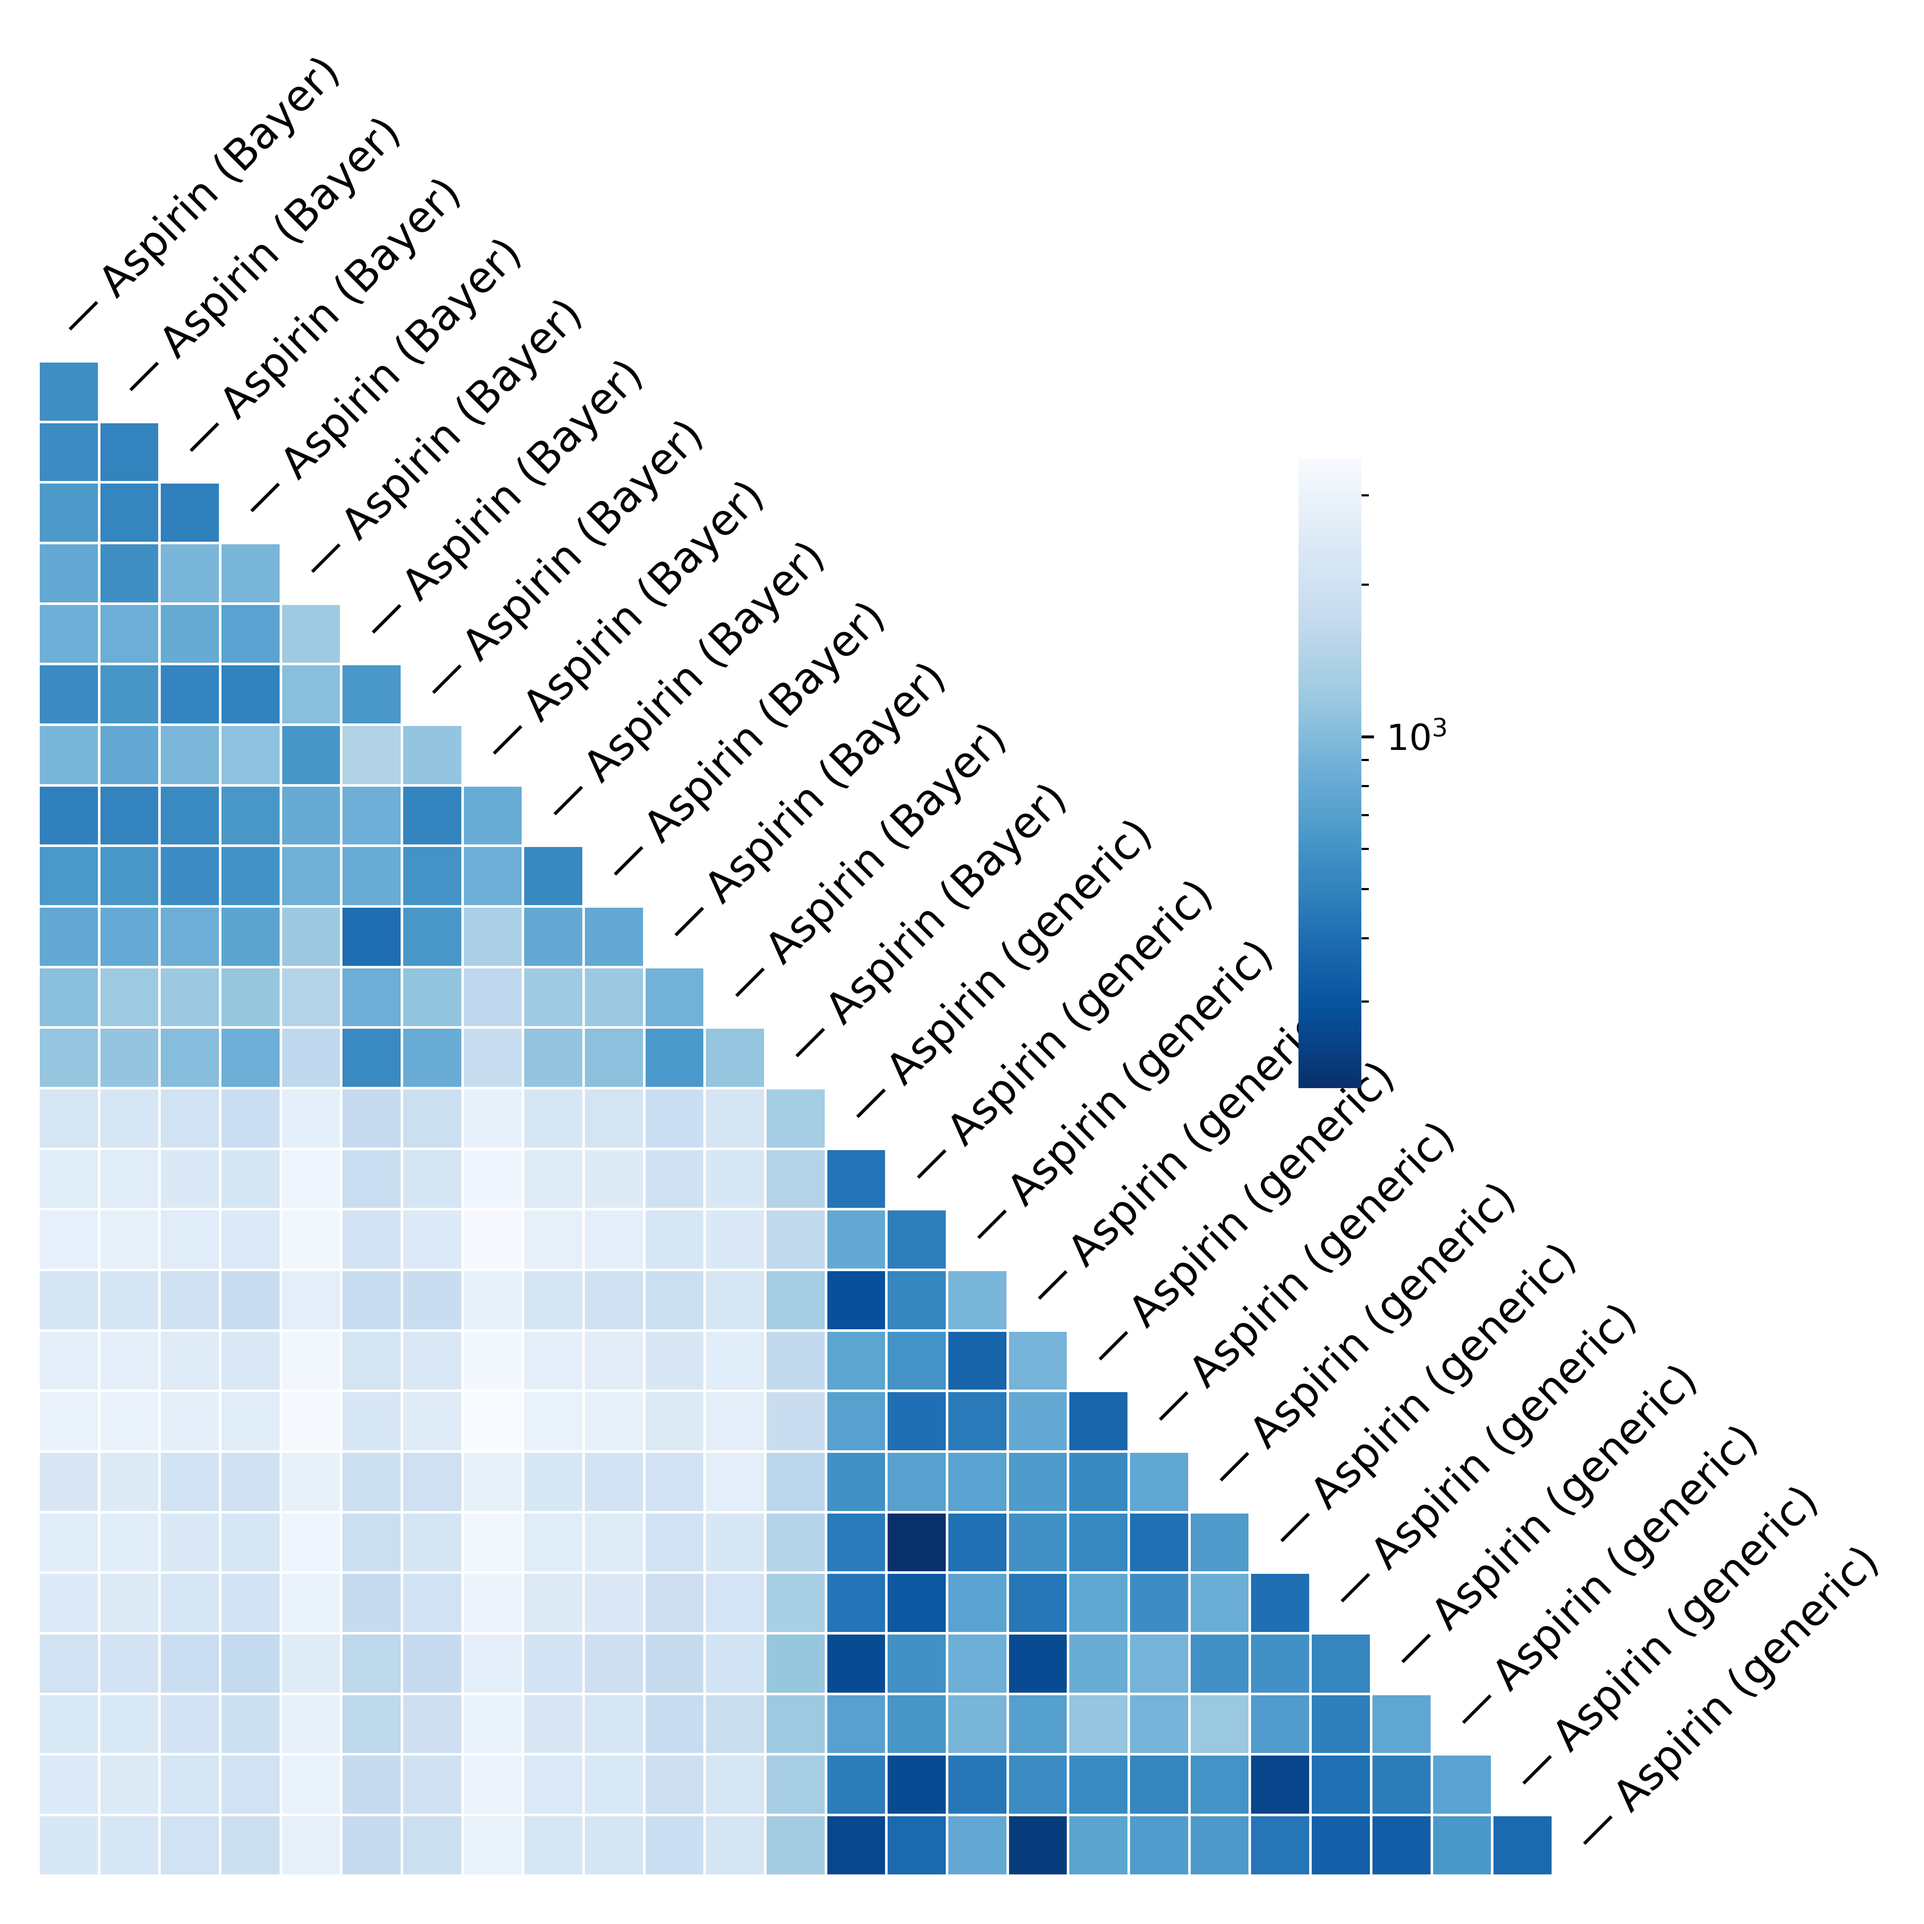
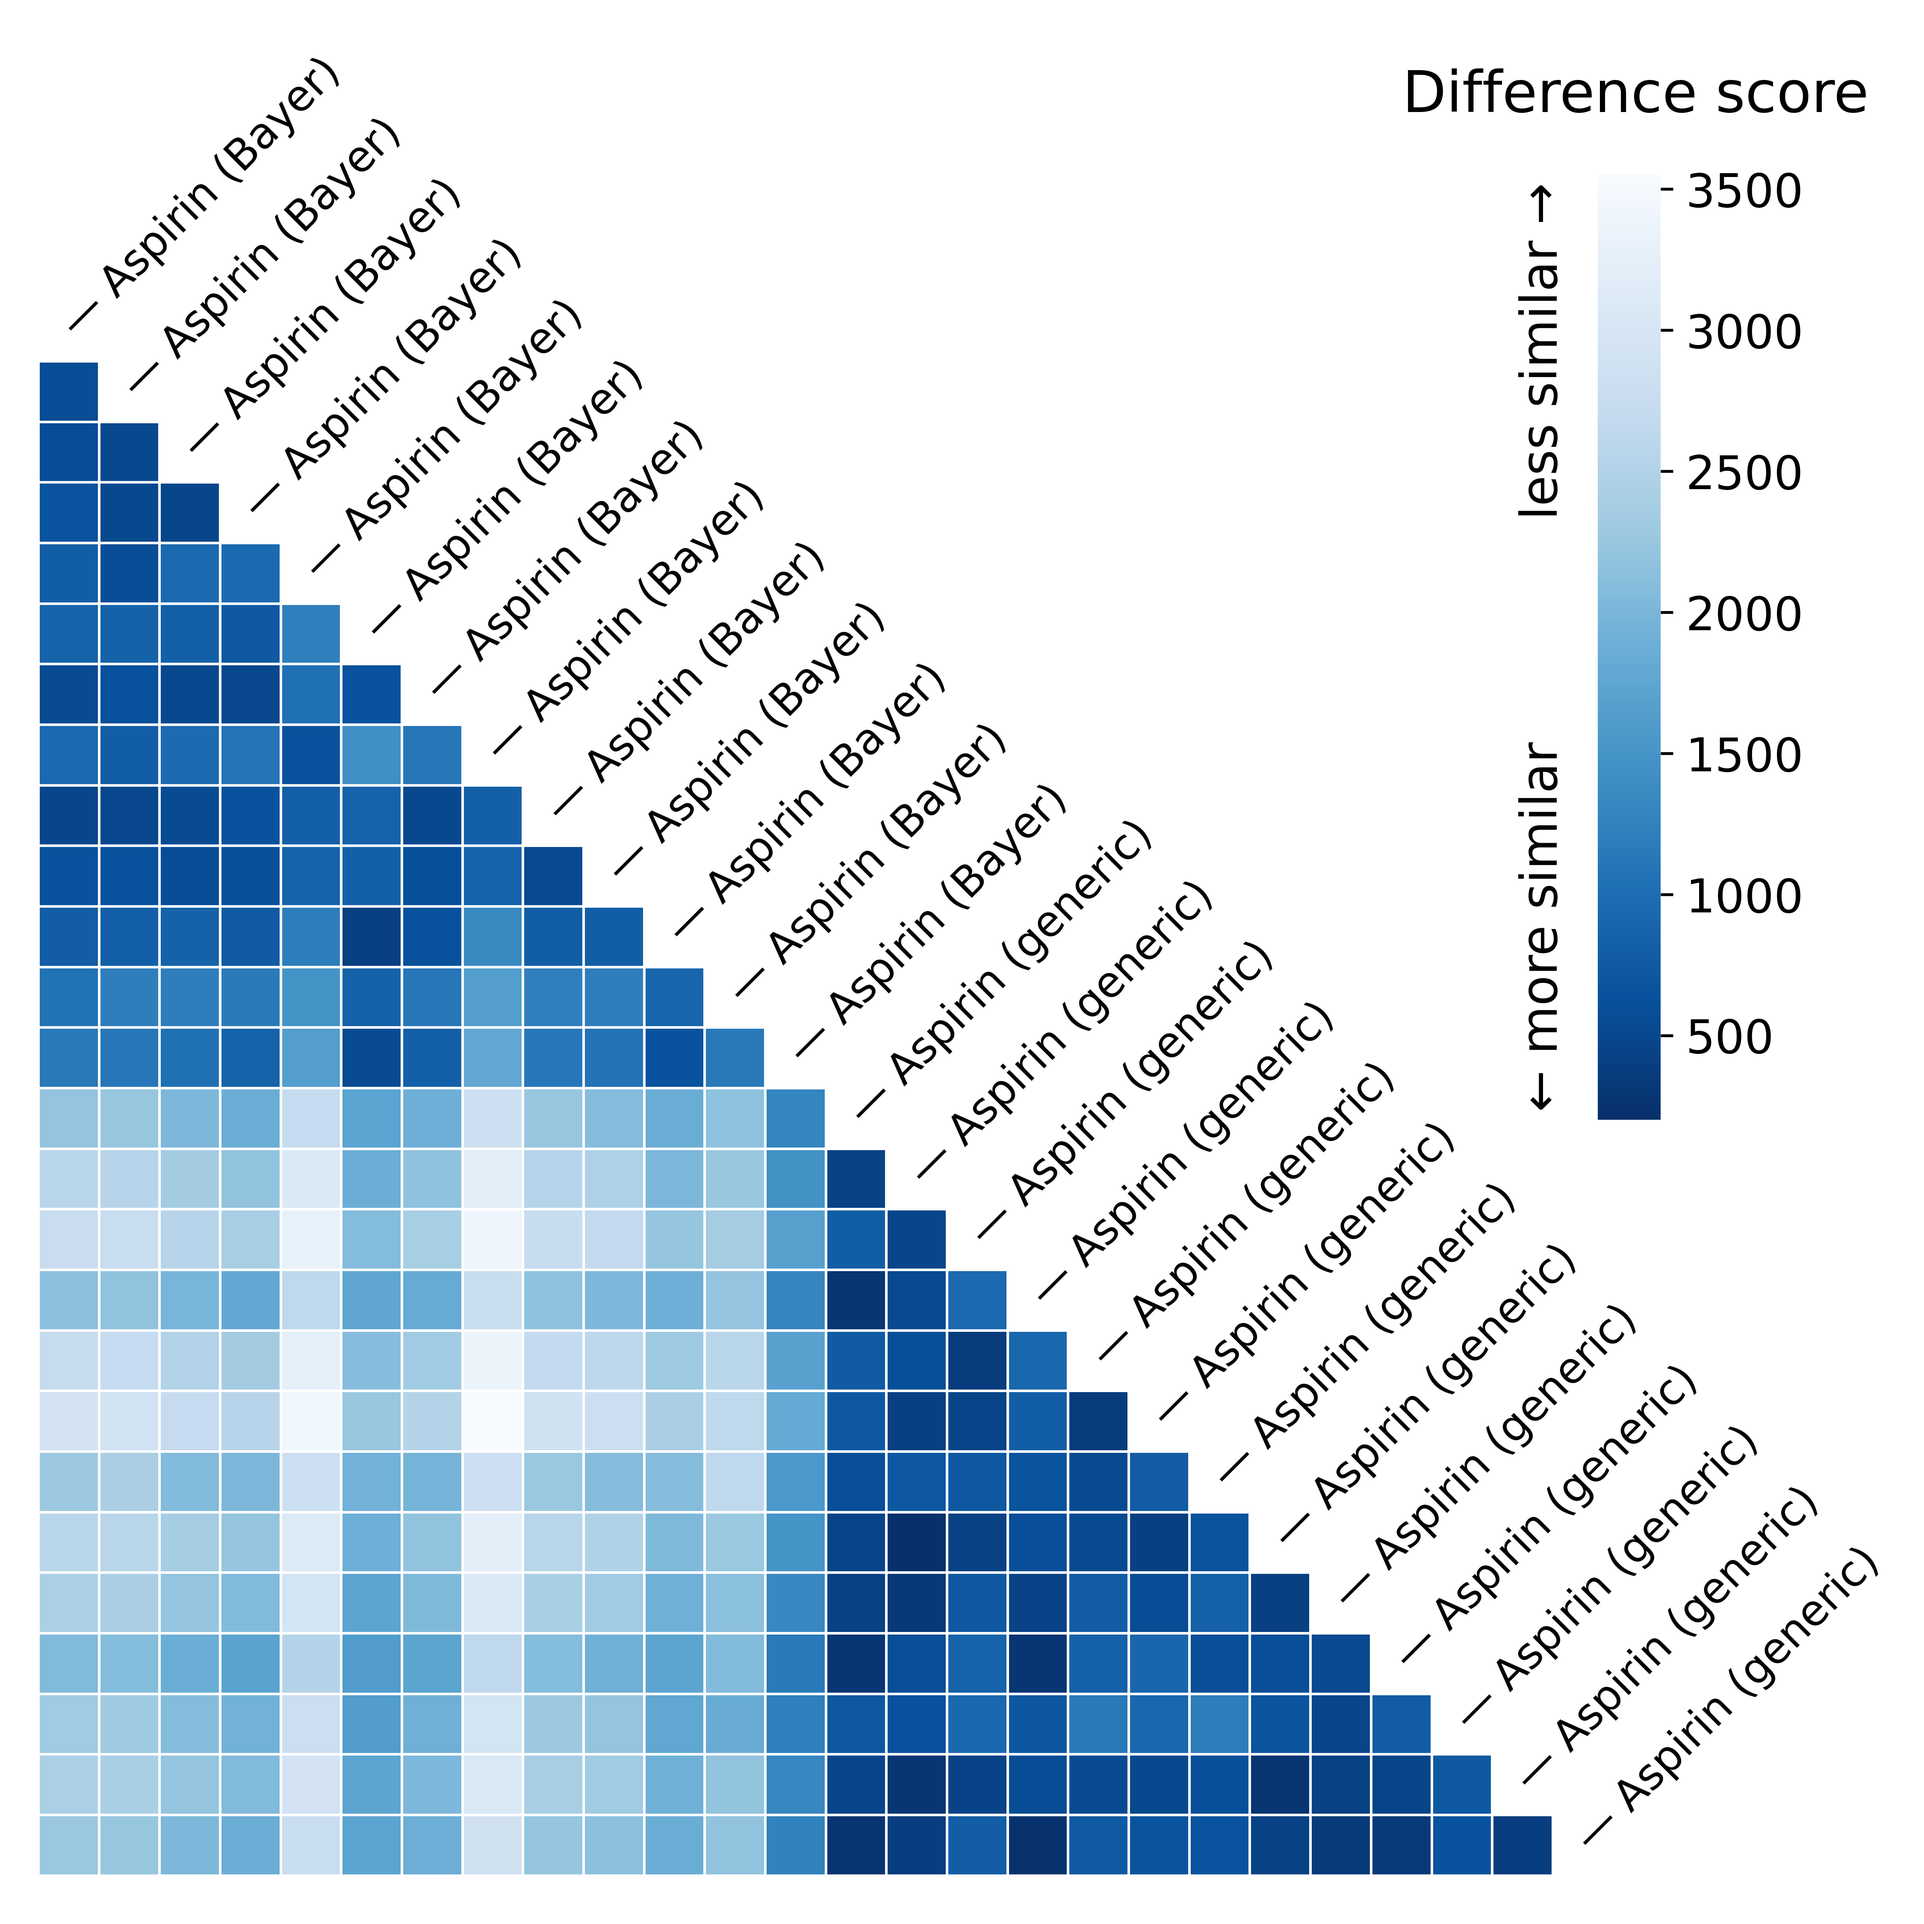
heatmap colorbar improvements

diff --git a/df-heatmap.py b/df-heatmap.py
@@ -145,8 +145,22 @@ mask = numpy.triu(numpy.ones_like(bigtable, dtype=bool))
 fig, ax = plt.subplots(figsize=(7.5,7.5))
 plt.axis("off")
 # plt.subplots_adjust(left=0.05, right=0.99, top=0.99, bottom=0.01)
-cbar_ax = ax.inset_axes([0.8, 0.5, 0.04, 0.4])
-sns.heatmap(bigtable, mask=mask, cmap="Blues_r", linewidth=0.5, norm=LogNorm(), square=True, cbar_ax=cbar_ax)
+
+
+if args.figure == "aspirin":
+	cbar_ax = ax.inset_axes([0.99, 0.48, 0.04, 0.6])
+	heatmapax = sns.heatmap(bigtable, mask=mask, cmap="Blues_r", linewidth=0.5, square=True, cbar_ax=cbar_ax)   # linear scale
+	cbar = heatmapax.collections[0].colorbar
+	cbar.set_label('← more similar              less similar →', rotation=90, labelpad=-80, size=14)
+	cbar.ax.tick_params(labelsize=13)
+	plt.text(0.85, 0.95, 'Difference score', horizontalalignment="center", verticalalignment="center", transform=fig.transFigure, size=16)
+elif args.figure == "bayer_tylenol_only":
+	cbar_ax = ax.inset_axes([0.9, 0.7, 0.04, 0.4])
+	sns.heatmap(bigtable, mask=mask, cmap="Blues_r", linewidth=0.5, square=True, cbar_ax=cbar_ax)   # linear scale
+elif args.figure == "variety":
+	cbar_ax = ax.inset_axes([0.9, 0.7, 0.04, 0.4])
+	sns.heatmap(bigtable, mask=mask, cmap="Blues_r", linewidth=0.5, norm=LogNorm(), square=True, cbar_ax=cbar_ax)   # log scale
+
 
 pointer = "— "
 for x, l in enumerate(d):
